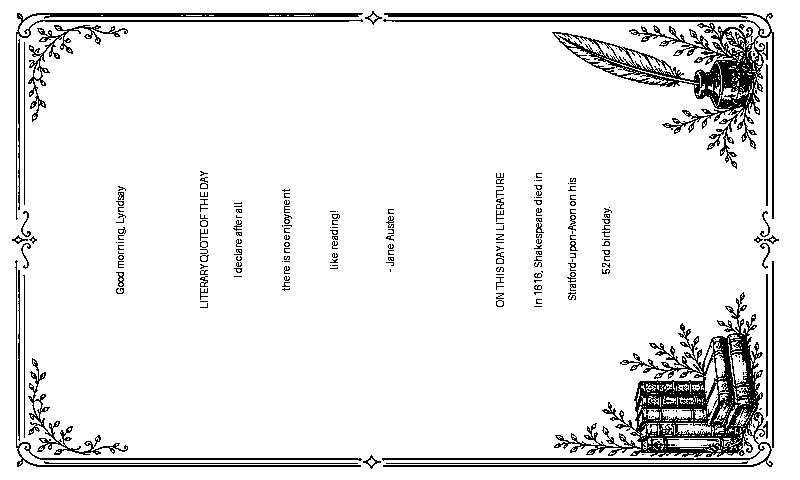
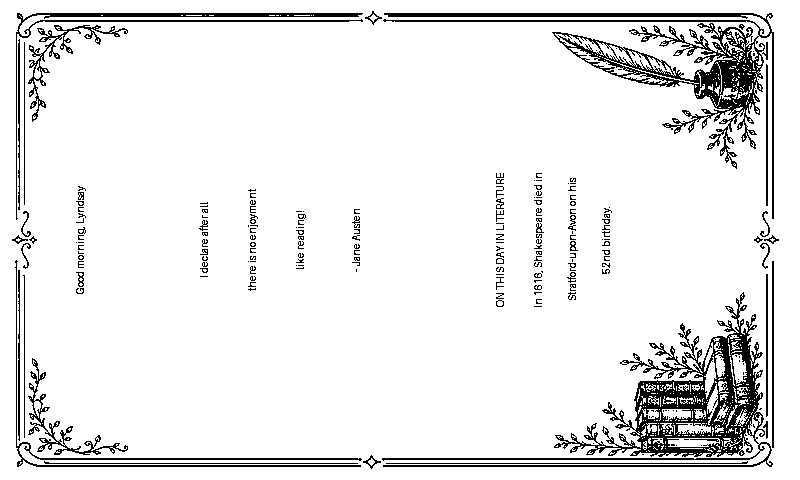
Refine Pi display and config UI

diff --git a/app/static/app.js b/app/static/app.js
@@ -68,14 +68,22 @@ function render() {
   writeSection("lower", display.lower || defaultLowerSection());
   fields.notes.value = display.notes;
 
-  const isPiDisplay = activeDisplay === "waveshare-rpi3";
-  document.querySelector("#quoteSection").hidden = isPiDisplay;
-  document.querySelector("#weatherSection").hidden = isPiDisplay;
-  document.querySelector("#piSections").hidden = !isPiDisplay;
+  setSectionVisibility();
 
   document.querySelectorAll(".display-tab").forEach((button) => {
     button.classList.toggle("active", button.dataset.display === activeDisplay);
   });
+}
+
+function setSectionVisibility() {
+  const isElecrowDisplay = activeDisplay === "elecrow";
+  const isPiDisplay = activeDisplay === "waveshare-rpi3";
+
+  document.querySelector("#displaySection").hidden = isElecrowDisplay;
+  document.querySelector("#weatherSection").hidden = !isElecrowDisplay;
+  document.querySelector("#quoteSection").hidden = true;
+  document.querySelector("#piSections").hidden = !isPiDisplay;
+  document.querySelector("#notesSection").hidden = isElecrowDisplay;
 }
 
 function defaultUpperSection() {

diff --git a/app/static/index.html b/app/static/index.html
@@ -22,7 +22,7 @@
       </aside>
 
       <form id="configForm" class="panel">
-        <section class="section">
+        <section id="displaySection" class="section">
           <div class="section-title">
             <h2>Display</h2>
             <label class="switch">
@@ -174,7 +174,7 @@
           </label>
         </section>
 
-        <section class="section">
+        <section id="notesSection" class="section">
           <h2>Notes</h2>
           <textarea id="notes" rows="3" maxlength="320"></textarea>
         </section>

diff --git a/rpi3-waveshare-book-clock/src/render_book_clock.py b/rpi3-waveshare-book-clock/src/render_book_clock.py
@@ -58,12 +58,19 @@ def fetch_clock_data(now: datetime, api_url: str | None = None) -> ClockData:
     url = f"{api_url}/api/displays/waveshare-rpi3/literary"
     request = Request(url, headers={"Accept": "application/json", "User-Agent": "desk-clock-rpi3/0.2.6"})
     try:
+        print(f"Config API GET {url}", flush=True)
         with urlopen(request, timeout=10) as response:
             payload = json.loads(response.read().decode("utf-8"))
         fallback = ClockData(now=now)
         upper = payload.get("upper") if isinstance(payload.get("upper"), dict) else {}
         lower = payload.get("lower") if isinstance(payload.get("lower"), dict) else {}
         quote = payload.get("quote") if isinstance(payload.get("quote"), dict) else {}
+        print(
+            "Config API loaded Pi content: "
+            f"upper_source={upper.get('source', quote.get('source', 'fallback'))} "
+            f"lower_source={lower.get('source', 'fallback')}",
+            flush=True,
+        )
         return ClockData(
             now=now,
             greeting=greeting_for(now),
@@ -74,12 +81,14 @@ def fetch_clock_data(now: datetime, api_url: str | None = None) -> ClockData:
             lower_text=str(lower.get("text") or payload.get("literature_text") or fallback.lower_text),
             lower_author=str(lower.get("author") or fallback.lower_author),
         )
-    except (TimeoutError, URLError, ValueError, KeyError, TypeError, OSError):
+    except (TimeoutError, URLError, ValueError, KeyError, TypeError, OSError) as exc:
+        print(f"Config API fetch failed, using fallback Pi content: {exc}", flush=True)
         return ClockData(now=now, greeting=greeting_for(now))
 
 
 def font(size: int, bold: bool = False, italic: bool = False) -> ImageFont.FreeTypeFont | ImageFont.ImageFont:
     candidates = [
+        "/usr/share/fonts/truetype/baskerville/GFSBaskerville.otf",
         "/usr/share/fonts/truetype/dejavu/DejaVuSans-BoldOblique.ttf" if bold and italic else "",
         "/usr/share/fonts/truetype/dejavu/DejaVuSans-Oblique.ttf" if italic else "",
         "/usr/share/fonts/truetype/dejavu/DejaVuSans-Bold.ttf" if bold else "/usr/share/fonts/truetype/dejavu/DejaVuSans.ttf",
@@ -182,16 +191,15 @@ def draw_layout(data: ClockData) -> Image.Image:
     title = font(31, bold=True)
     quote_font = font(35)
     author_font = font(23)
-    small_caps = font(18, bold=True)
     body = font(23)
 
-    centered_text(draw, WIDTH // 2, 114, data.greeting or greeting_for(data.now), title)
+    centered_text(draw, WIDTH // 2, 74, data.greeting or greeting_for(data.now), title)
 
-    centered_text(draw, WIDTH // 2, 198, data.upper_title.upper(), small_caps)
-    y = wrapped_centered(draw, WIDTH // 2, 232, data.upper_text, quote_font, width=24, line_gap=48, max_lines=4)
+    y = wrapped_centered(draw, WIDTH // 2, 198, data.upper_text, quote_font, width=24, line_gap=48, max_lines=4)
     if data.upper_author:
         centered_text(draw, WIDTH // 2, min(y + 8, 450), f"- {data.upper_author}", author_font)
 
+    small_caps = font(18, bold=True)
     centered_text(draw, WIDTH // 2, 494, data.lower_title.upper(), small_caps)
     y = wrapped_centered(draw, WIDTH // 2, 532, data.lower_text, body, width=30, line_gap=34, max_lines=4)
     if data.lower_author:

diff --git a/rpi3-waveshare-book-clock/README.md b/rpi3-waveshare-book-clock/README.md
@@ -114,7 +114,7 @@ Install dependencies:
 
 ```bash
 sudo apt-get update
-sudo apt-get install -y python3-pip python3-pil python3-numpy python3-spidev python3-rpi.gpio
+sudo apt-get install -y python3-pip python3-pil python3-numpy python3-spidev python3-rpi.gpio fonts-gfs-baskerville
 pip3 install waveshare-epaper
 ```
 
